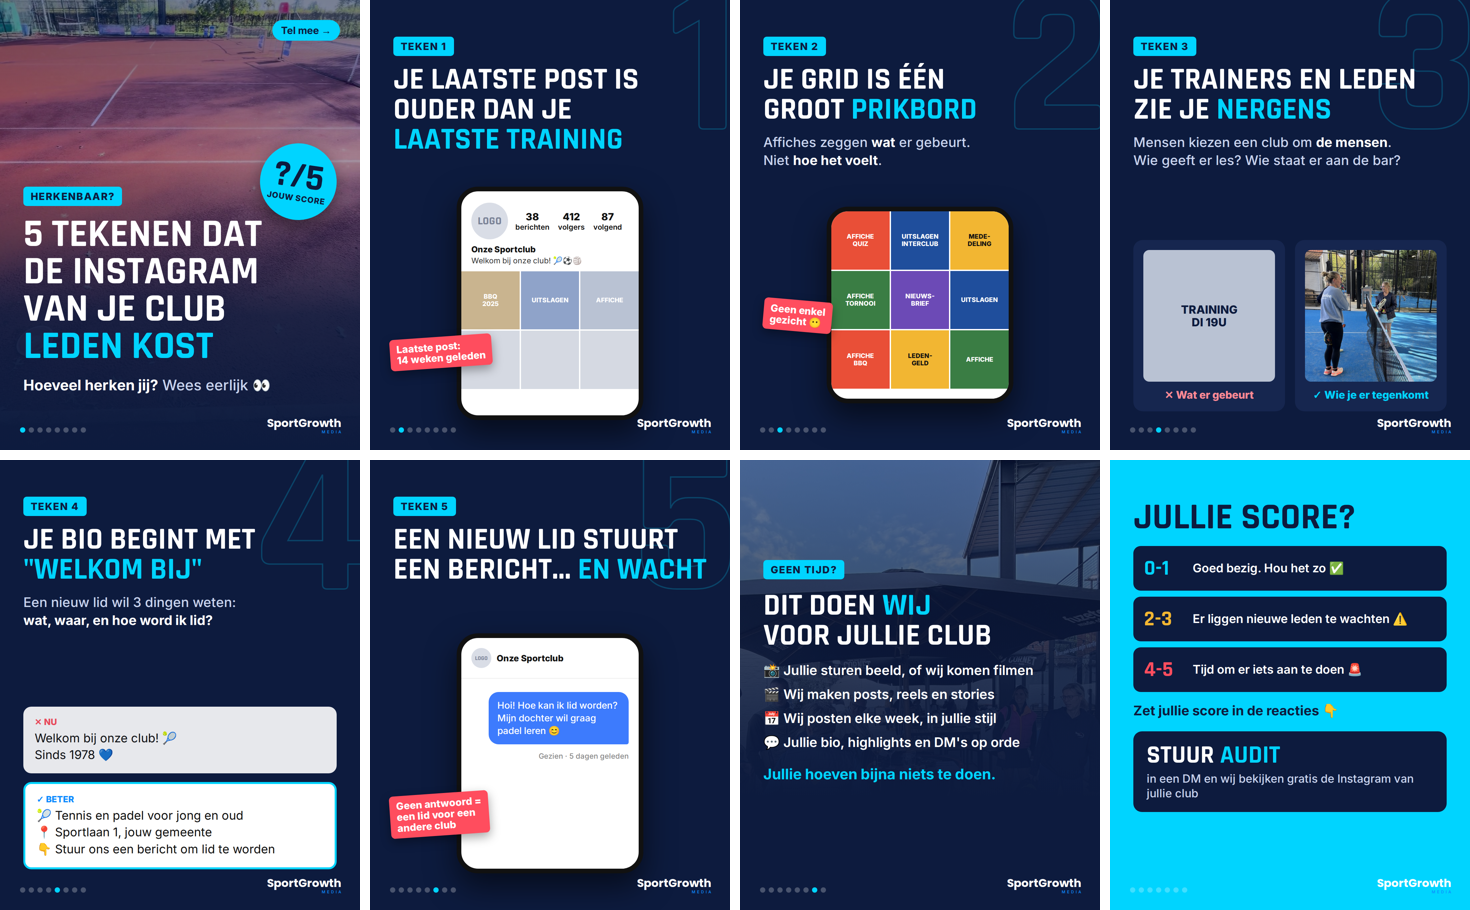
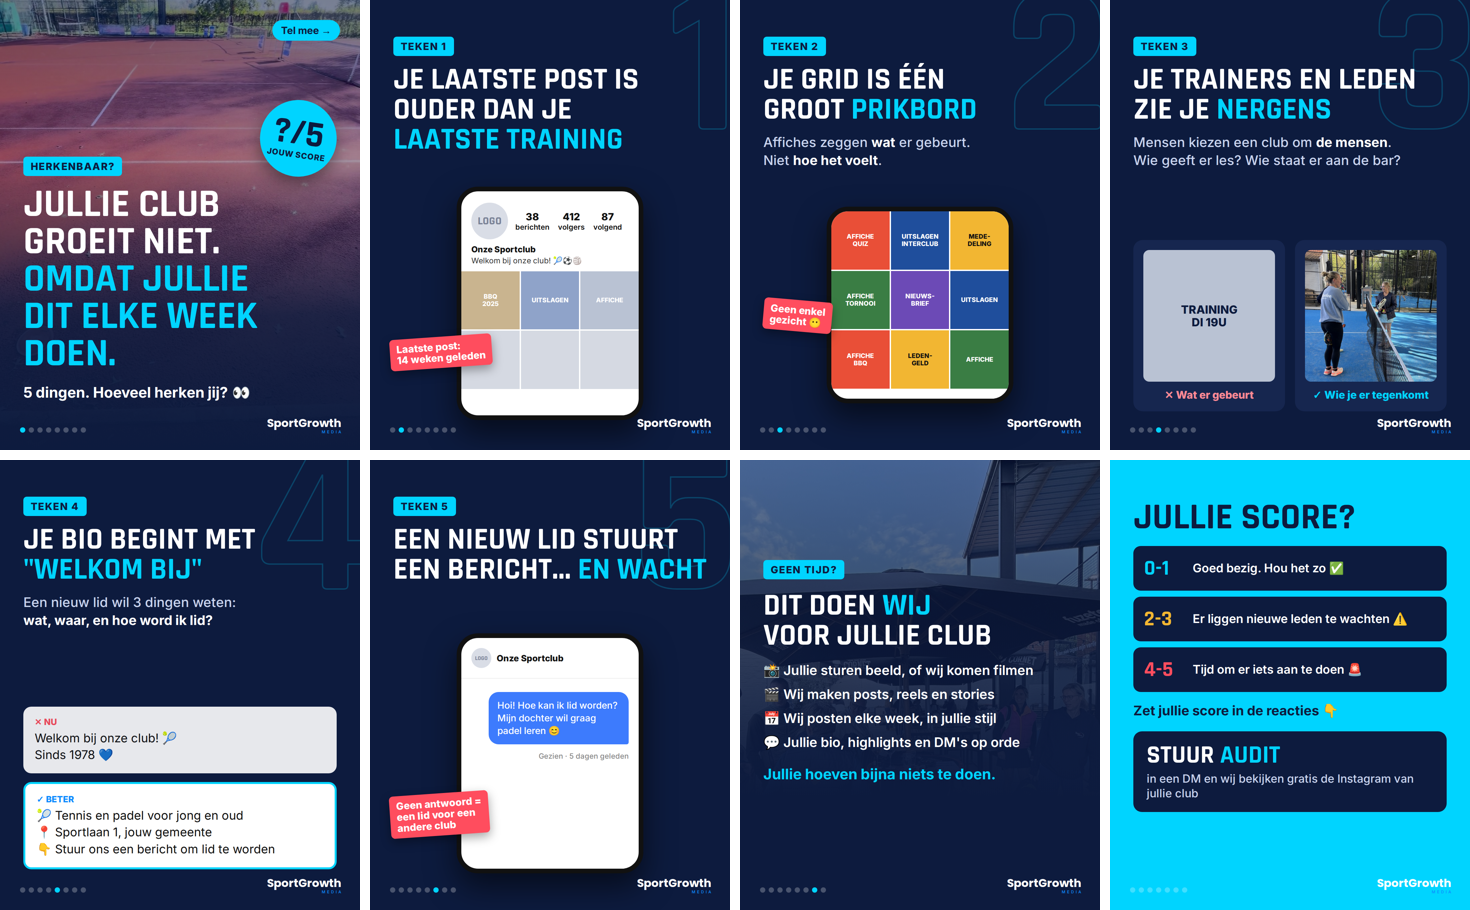
Carrousel 19/10: hook 'Jullie club groeit niet'; hookladder in contentsysteem
Claude-Session: https://claude.ai/code/session_01QkSWZzWLTduRQtPp2zathG

Changed region(s): [[0.0, 0.0923, 0.2449, 0.4615]]

diff --git a/instagram/carrousel-5-tekenen/build.js b/instagram/carrousel-5-tekenen/build.js
@@ -57,12 +57,12 @@ const slides = [];
 slides.push(page(1, `
 <div class="bg" style="background-image:url(file://${B}/tennis-leeg-gravel.jpg)"></div><div class="dim"></div>
 <div class="swipe">Tel mee →</div>
-<div style="position:absolute;left:70px;right:70px;top:560px;display:flex;flex-direction:column;gap:30px">
+<div style="position:absolute;left:70px;right:70px;top:470px;display:flex;flex-direction:column;gap:30px">
 <span class="tag" style="align-self:flex-start">HERKENBAAR?</span>
-<h1>5 tekenen dat<br>de Instagram<br>van je club<br><span class="c">leden kost</span></h1>
-<p class="t" style="font-size:44px"><b>Hoeveel herken jij?</b> Wees eerlijk 👀</p>
+<h1>Jullie club<br>groeit niet.<br><span class="c">Omdat jullie<br>dit elke week<br>doen.</span></h1>
+<p class="t" style="font-size:44px"><b>5 dingen. Hoeveel herken jij?</b> 👀</p>
 </div>
-<div style="position:absolute;right:70px;top:430px;width:230px;height:230px;border-radius:50%;background:#00d4ff;color:#0d1b3e;display:flex;flex-direction:column;align-items:center;justify-content:center;transform:rotate(8deg);box-shadow:0 20px 50px rgba(0,0,0,.4)"><span style="font:700 110px/0.9 Rj">?/5</span><span style="font:800 24px In;letter-spacing:.05em">JOUW SCORE</span></div>
+<div style="position:absolute;right:70px;top:300px;width:230px;height:230px;border-radius:50%;background:#00d4ff;color:#0d1b3e;display:flex;flex-direction:column;align-items:center;justify-content:center;transform:rotate(8deg);box-shadow:0 20px 50px rgba(0,0,0,.4)"><span style="font:700 110px/0.9 Rj">?/5</span><span style="font:800 24px In;letter-spacing:.05em">JOUW SCORE</span></div>
 `));
 
 // 2 TEKEN 1: laatste post

diff --git a/instagram/CONTENTSYSTEEM.md b/instagram/CONTENTSYSTEEM.md
@@ -72,6 +72,16 @@ Verdeling per 4 weken (12 posts): 3 HERKENBAAR? · 3 CLUBCHECK · 2 RESULTAAT ·
 
 **Carrousel (8 slides):** 1 hook · 2 herkenning · 3-6 inhoud · 7 "Dit doen wij voor jullie club" · 8 "Stuur AUDIT".
 
+## 5b. De hook (eerste regel van elke post)
+Raakt de eerste regel niet, dan doet de rest er niet toe. Laat de club meteen iets voelen.
+| Niveau | Voorbeeld | Waarom |
+|---|---|---|
+| ❌ Slecht | "5 tips voor de Instagram van je club" | Een onderwerp, geen gevoel |
+| 🟡 Beter | "Waarom jullie posten en toch geen nieuwe leden krijgen" | Benoemt de pijn |
+| ✅ Best | "Jullie club groeit niet. Omdat jullie dit elke week doen." | Spreekt de club rechtstreeks aan, legt de schuld bij iets wat ze zelf doen, en belooft het antwoord |
+
+Regels: spreek de club aan met "jullie", noem een gevolg dat pijn doet (leden, groei, een nieuw lid dat elders kiest), wijs naar iets wat ze zelf doen, en verklap het antwoord niet op de cover. Elke hook gaat langs deze ladder vóór hij gebruikt wordt.
+
 ## 6. Stories (dagelijks, 2-5 minuten)
 | Dag | Story |
 |---|---|
